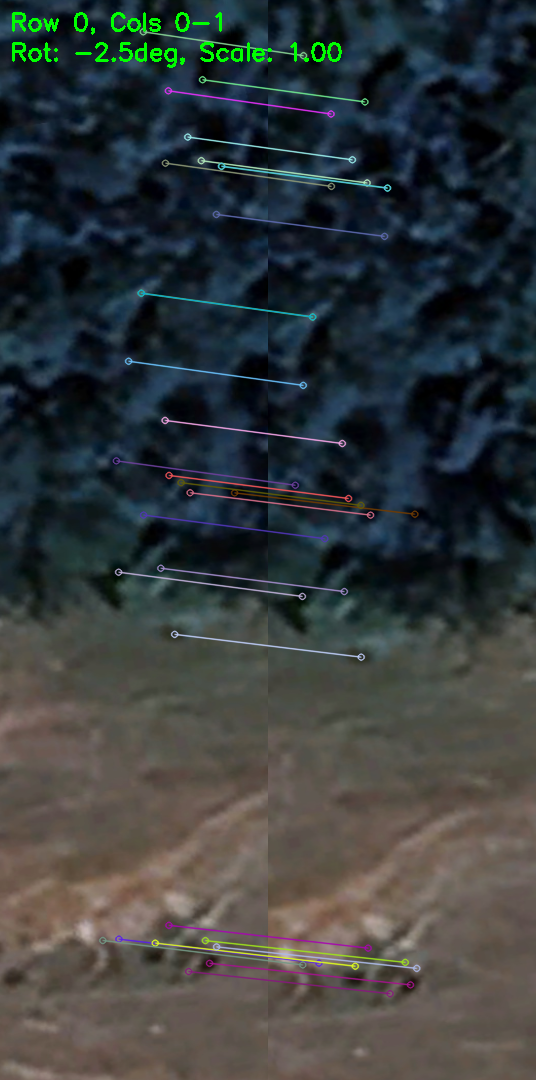
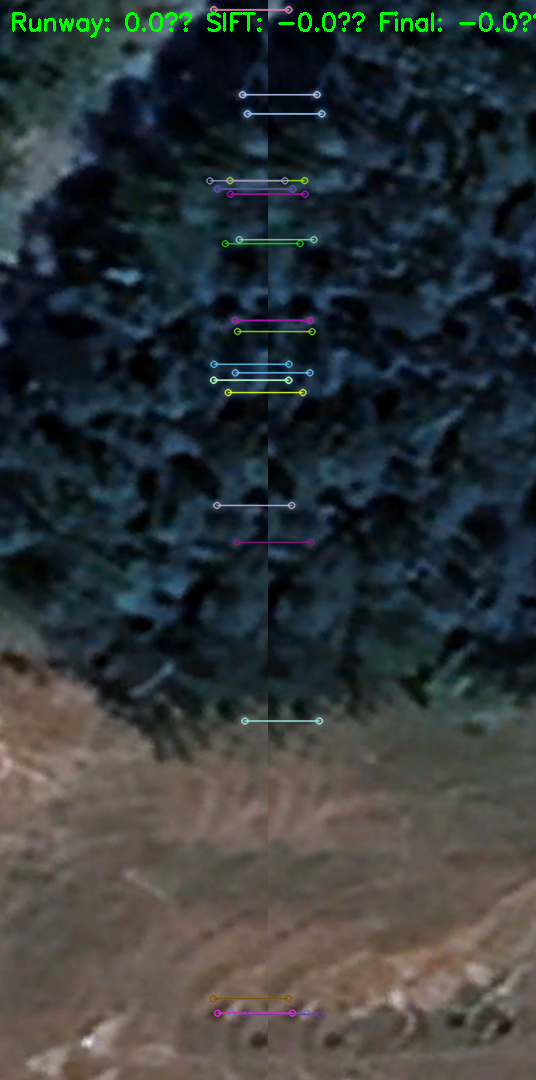
checkpoint 2

diff --git a/mapping_test/image_stitch.py b/mapping_test/image_stitch.py
@@ -28,8 +28,8 @@ def getDeltaY(m, kp1, kp2):
 def getSiftAlignment(img1, img2, overlapx, startyfrac, endyfrac, pos1=None, pos2=None):
     h, w1 = img1.shape[:2]
     
-    # Initialize SIFT detector
-    sift = cv2.SIFT_create()
+    # Initialize SIFT detector with increased contrast threshold
+    sift = cv2.SIFT_create(contrastThreshold=0.04)  # Make it more selective
 
     # Extract regions of interest for matching
     partialx1 = overlapx
@@ -39,91 +39,96 @@ def getSiftAlignment(img1, img2, overlapx, startyfrac, endyfrac, pos1=None, pos2
     pimg1 = img1[partialy1:partialy2, w1-partialx1:]
     pimg2 = img2[partialy1:partialy2, 0:partialx2]
     
-    # Detect keypoints and descriptors
+    # Detect lines in both images using Hough transform
+    gray1 = cv2.cvtColor(pimg1, cv2.COLOR_BGR2GRAY)
+    gray2 = cv2.cvtColor(pimg2, cv2.COLOR_BGR2GRAY)
+    edges1 = cv2.Canny(gray1, 50, 150)
+    edges2 = cv2.Canny(gray2, 50, 150)
+    lines1 = cv2.HoughLines(edges1, 1, np.pi/180, threshold=100)
+    lines2 = cv2.HoughLines(edges2, 1, np.pi/180, threshold=100)
+    
+    # Get dominant horizontal line angles
+    def get_horizontal_angle(lines):
+        if lines is None:
+            return 0
+        angles = []
+        for rho, theta in lines[:, 0]:
+            # Convert theta to degrees and normalize around 0
+            angle = (theta * 180 / np.pi) - 90
+            # Only consider nearly horizontal lines (within ±15 degrees)
+            if abs(angle) < 15:
+                angles.append(angle)
+        return np.median(angles) if angles else 0
+    
+    line_rotation1 = get_horizontal_angle(lines1)
+    line_rotation2 = get_horizontal_angle(lines2)
+    runway_rotation = line_rotation2 - line_rotation1
+    
+    # Regular SIFT matching
     kp1, des1 = sift.detectAndCompute(pimg1, None)
     kp2, des2 = sift.detectAndCompute(pimg2, None)
-
-    # Use BFMatcher with cross-checking
+    
     bf = cv2.BFMatcher(cv2.NORM_L2, crossCheck=True)
     matches = bf.match(des1, des2)
-
-    # Enhanced matching filtering
-    # First, sort by match distance (SIFT descriptor distance)
-    matches = sorted(matches, key=lambda x: x.distance)
-    # Take top 30 matches for RANSAC
-    matches = matches[:30]
-
-    # Extract matched point coordinates
+    matches = sorted(matches, key=lambda x: x.distance)[:30]
+    
     pts1 = np.float32([kp1[m.queryIdx].pt for m in matches])
     pts2 = np.float32([kp2[m.trainIdx].pt for m in matches])
-
-    # Use RANSAC to find the best rigid transformation
-    # Restrict to similarity transform (rotation + translation + uniform scale)
+    
     transform, mask = cv2.estimateAffinePartial2D(
         pts1, pts2,
         method=cv2.RANSAC,
-        ransacReprojThreshold=3,  # 3 pixel max deviation
-        maxIters=2000,
-        confidence=0.99,
-        refineIters=10
-    )  # estimateAffinePartial2D already restricts to similarity transform
-
+        ransacReprojThreshold=3,
+        maxIters=2000
+    )
+    
     if transform is None or len(matches) < 4:
         print("No reliable transformation found, using fallback")
         return (overlapx//2, overlapx//2, 0, 0)
-
-    # Filter matches using the RANSAC mask
+    
+    # Filter matches using RANSAC mask
     matches = [m for i, m in enumerate(matches) if mask[i][0]]
-
-    # Enhanced debug visualization
-    if transform is not None:
-        rotation_angle = np.arctan2(transform[1,0], transform[0,0]) * 180 / np.pi
-        scale = np.sqrt(transform[0,0]**2 + transform[1,0]**2)
-        
-        # Create descriptive debug message based on position
-        if pos1 and pos2:
-            if isinstance(pos1[0], str) and pos1[0] == 'v':
-                debug_msg = f"Vertical stitch: Rows {pos1[1]}-{pos2[1]}"
-            else:
-                debug_msg = f"Row {pos1[0]}, Cols {pos1[1]}-{pos2[1]}"
-        else:
-            debug_msg = "Unknown position"
-            
-        print(f"\nDebug: Found transformation for {debug_msg}:")
-        print(f"  - Rotation: {rotation_angle:.2f}°")
-        print(f"  - Scale: {scale:.3f}")
-        print(f"  - Translation: ({transform[0,2]:.1f}, {transform[1,2]:.1f})")
-        
-        # Save debug image with transformation info
-        img_matches = cv2.drawMatches(
-            pimg1, kp1, pimg2, kp2, matches, None,
-            flags=cv2.DrawMatchesFlags_NOT_DRAW_SINGLE_POINTS
-        )
-        
-        # Add text with transformation info and position info
-        cv2.putText(img_matches, f"{debug_msg}", 
-                    (10, 30), cv2.FONT_HERSHEY_SIMPLEX, 0.8, (0,255,0), 2)
-        cv2.putText(img_matches, f"Rot: {rotation_angle:.1f}deg, Scale: {scale:.2f}", 
-                    (10, 60), cv2.FONT_HERSHEY_SIMPLEX, 0.8, (0,255,0), 2)
-        
-        # Create unique filename
-        if pos1 and pos2:
-            if isinstance(pos1[0], str) and pos1[0] == 'v':
-                filename = f'debug_match_vertical_r{pos1[1]}_r{pos2[1]}.png'
-            else:
-                filename = f'debug_match_horizontal_r{pos1[0]}c{pos1[1]}_c{pos2[1]}.png'
-        else:
-            from datetime import datetime
-            timestamp = datetime.now().strftime('%H%M%S_%f')
-            filename = f'debug_match_{timestamp}.png'
-            
-        cv2.imwrite("debug/"+filename, img_matches)
-
-    if len(matches) < 4:
-        print("Too few good matches, using fallback")
-        return (overlapx//2, overlapx//2, 0, 0)
-
-    # Calculate median offsets from RANSAC-filtered matches
+    
+    # Calculate SIFT-based rotation
+    sift_rotation = np.arctan2(transform[1,0], transform[0,0]) * 180 / np.pi
+    
+    # Combine SIFT and runway line information
+    if abs(runway_rotation) < 5:
+        # Weight runway lines more heavily when they're detected
+        final_rotation = 0.7 * runway_rotation + 0.3 * sift_rotation
+    else:
+        # Fall back to SIFT when runway lines aren't clear
+        final_rotation = sift_rotation
+    
+    # Debug visualization
+    img_matches = cv2.drawMatches(pimg1, kp1, pimg2, kp2, matches, None,
+                                flags=cv2.DrawMatchesFlags_NOT_DRAW_SINGLE_POINTS)
+    
+    # Draw detected lines
+    if lines1 is not None:
+        for rho, theta in lines1[:, 0]:
+            a = np.cos(theta)
+            b = np.sin(theta)
+            x0 = a * rho
+            y0 = b * rho
+            x1 = int(x0 + 1000 * (-b))
+            y1 = int(y0 + 1000 * (a))
+            x2 = int(x0 - 1000 * (-b))
+            y2 = int(y0 - 1000 * (a))
+            cv2.line(img_matches, (x1, y1), (x2, y2), (0, 255, 0), 2)
+    
+    cv2.putText(img_matches, 
+                f"Runway: {runway_rotation:.1f}° SIFT: {sift_rotation:.1f}° Final: {final_rotation:.1f}°",
+                (10, 30), cv2.FONT_HERSHEY_SIMPLEX, 0.8, (0, 255, 0), 2)
+    
+    if pos1 and pos2:
+        filename = f'debug_match_horizontal_r{pos1[0]}c{pos1[1]}_c{pos2[1]}.png'
+    else:
+        from datetime import datetime
+        filename = f'debug_match_{datetime.now().strftime("%H%M%S_%f")}.png'
+    cv2.imwrite("debug/"+filename, img_matches)
+    
+    # Calculate other transformations as before
     pt_LRx = [getLeftRightX(m, kp1, kp2, partialx1) for m in matches]
     pt_Lx = [x[0] for x in pt_LRx]
     pt_Rx = [x[1] for x in pt_LRx]
@@ -132,13 +137,8 @@ def getSiftAlignment(img1, img2, overlapx, startyfrac, endyfrac, pos1=None, pos2
     lx = int(median(pt_Lx))
     rx = int(median(pt_Rx))
     vshift = int(median(pt_deltay))
-
-    # Extract rotation angle from transformation matrix
-    rotation_angle = np.arctan2(transform[1,0], transform[0,0]) * 180 / np.pi
-    if abs(rotation_angle) > 5:
-        print(f"Warning: Large rotation detected ({rotation_angle:.1f}°), may need attention")
-
-    return (lx, rx, vshift, rotation_angle)
+    
+    return (lx, rx, vshift, final_rotation)
 
 
 def leftRightStitch(img1, img2, overlapx, pos1=None, pos2=None):
@@ -211,26 +211,91 @@ def stitchMatrix(imgMatrix):
     total_h = sum([r[0].shape[0] for r in imgMatrix])
     typical_h = imgMatrix[0][0].shape[0]
 
-    # First stitch rows horizontally
+    # First stitch rows horizontally, but maintain original orientations
+    print("\nFirst pass: Basic row stitching")
     rowImages = []
+    row_rotations = []  # Track rotations for each row
+    
     for row_idx, row in enumerate(imgMatrix):
         print(f"\nStitching row {row_idx}")
-        stitched_row = stitchRow(row, OVERLAP_X, row_idx)  # Pass row_idx
+        stitched_row, row_rotation = stitchRowWithRotation(row, OVERLAP_X, row_idx)
         rowImages.append(stitched_row)
+        row_rotations.append(row_rotation)
+    
+    # Calculate median row rotation as reference
+    median_rotation = np.median(row_rotations)
+    print(f"\nMedian row rotation: {median_rotation:.2f}°")
+    
+    # Correct each row to match median rotation
+    print("\nSecond pass: Normalizing row rotations")
+    normalized_rows = []
+    for idx, (row_img, row_rot) in enumerate(zip(rowImages, row_rotations)):
+        correction = median_rotation - row_rot
+        if abs(correction) > 0.5:  # Only correct significant differences
+            print(f"Correcting row {idx} by {correction:.2f}°")
+            height, width = row_img.shape[:2]
+            center = (width // 2, height // 2)
+            rotation_matrix = cv2.getRotationMatrix2D(center, correction, 1.0)
+            row_img = cv2.warpAffine(row_img, rotation_matrix, (width, height))
+        normalized_rows.append(row_img)
     
     # Resize rows to same width
-    rowImages = [cv2.resize(img, (total_w, typical_h), interpolation = cv2.INTER_LINEAR) for img in rowImages]
+    normalized_rows = [cv2.resize(img, (total_w, typical_h), interpolation=cv2.INTER_LINEAR) 
+                      for img in normalized_rows]
     
-    # Rotate for vertical stitching
-    rotatedImages = [cv2.rotate(img, cv2.ROTATE_90_COUNTERCLOCKWISE) for img in rowImages]
-    
-    print("\nStitching columns (rotated rows)")
-    # Use modified stitchRow for vertical stitching, with 'v' prefix for debug files
-    rotatedResult = stitchRow(rotatedImages, OVERLAP_Y, 'v')
+    # Vertical stitching with minimal rotation allowed
+    print("\nFinal pass: Vertical stitching")
+    rotatedImages = [cv2.rotate(img, cv2.ROTATE_90_COUNTERCLOCKWISE) for img in normalized_rows]
+    rotatedResult = stitchRowWithRotation(rotatedImages, OVERLAP_Y, 'v', max_rotation=1.0)[0]
     
     result = cv2.rotate(rotatedResult, cv2.ROTATE_90_CLOCKWISE)
-    result = cv2.resize(result, (total_w, total_h), interpolation = cv2.INTER_LINEAR)
+    result = cv2.resize(result, (total_w, total_h), interpolation=cv2.INTER_LINEAR)
     return result
+
+def stitchRowWithRotation(imgArr, overlapx, row_idx_or_prefix, max_rotation=5.0):
+    """Modified version that returns both result and cumulative rotation"""
+    result = imgArr[0]
+    cumulative_rotation = 0
+    
+    for i in range(len(imgArr) - 1):
+        if isinstance(row_idx_or_prefix, int):
+            pos1 = (row_idx_or_prefix, i)
+            pos2 = (row_idx_or_prefix, i+1)
+            print(f"Stitching horizontal pair: Row {row_idx_or_prefix}, Cols {i} and {i+1}")
+        else:
+            pos1 = ('v', i)
+            pos2 = ('v', i+1)
+            print(f"Stitching vertical pair: Rows {i} and {i+1}")
+        
+        # Get alignment with restricted rotation
+        sA = getSiftAlignment(result, imgArr[i+1], overlapx, 0, 1, pos1, pos2)
+        rotation = min(max(sA[3], -max_rotation), max_rotation)  # Clamp rotation
+        
+        # Apply transformation
+        height, width = imgArr[i+1].shape[:2]
+        if abs(rotation) > 0.5:
+            center = (width // 2, height // 2)
+            rotation_matrix = cv2.getRotationMatrix2D(center, -rotation, 1.0)
+            img2 = cv2.warpAffine(imgArr[i+1], rotation_matrix, (width, height))
+        else:
+            img2 = imgArr[i+1]
+            rotation = 0
+            
+        # Stitch
+        if sA[2] > 0:  # vshift
+            result = cv2.copyMakeBorder(result, sA[2], 0, 0, 0, cv2.BORDER_CONSTANT)
+            result = result[:-sA[2]]
+        elif sA[2] < 0:
+            img2 = cv2.copyMakeBorder(img2, -sA[2], 0, 0, 0, cv2.BORDER_CONSTANT)
+            img2 = img2[:sA[2]]
+            
+        result = result[:, :-sA[0]]
+        img2 = img2[:, sA[1]:]
+        result = cv2.hconcat((result, img2))
+        
+        cumulative_rotation += rotation
+        
+    return result, cumulative_rotation
 
 
     
@@ -244,7 +309,7 @@ IMG_PATH = input("Enter the path of the output image: ").replace("\\", "/")
 #for testing
 COLS = 4
 ROWS = 3
-DIRECTORY = "5 (test)"
+DIRECTORY = "runway1"
 IMG_PATH = "result.png"
 OVERLAP_X = int(0.14*KING_SIZE[0])
 OVERLAP_Y = int(0.18*KING_SIZE[1])
@@ -254,7 +319,7 @@ OVERLAP_Y = int(0.18*KING_SIZE[1])
 
 #imgArr = [[cv2.imread(f'12-picture-map-test/{i}-{j}.png') for j in range(1,c+1)] for i in range(1, r+1)]
 def grabAndResize(col, row):
-    pic = cv2.imread(f'{DIRECTORY}/({col}, {row}).png')
+    pic = cv2.imread(f'{DIRECTORY}/({row}, {col}).png')
     return enforceResize(pic)
 
 imgArr = [[grabAndResize(j, i) for j in range(COLS)] for i in range(ROWS)]
